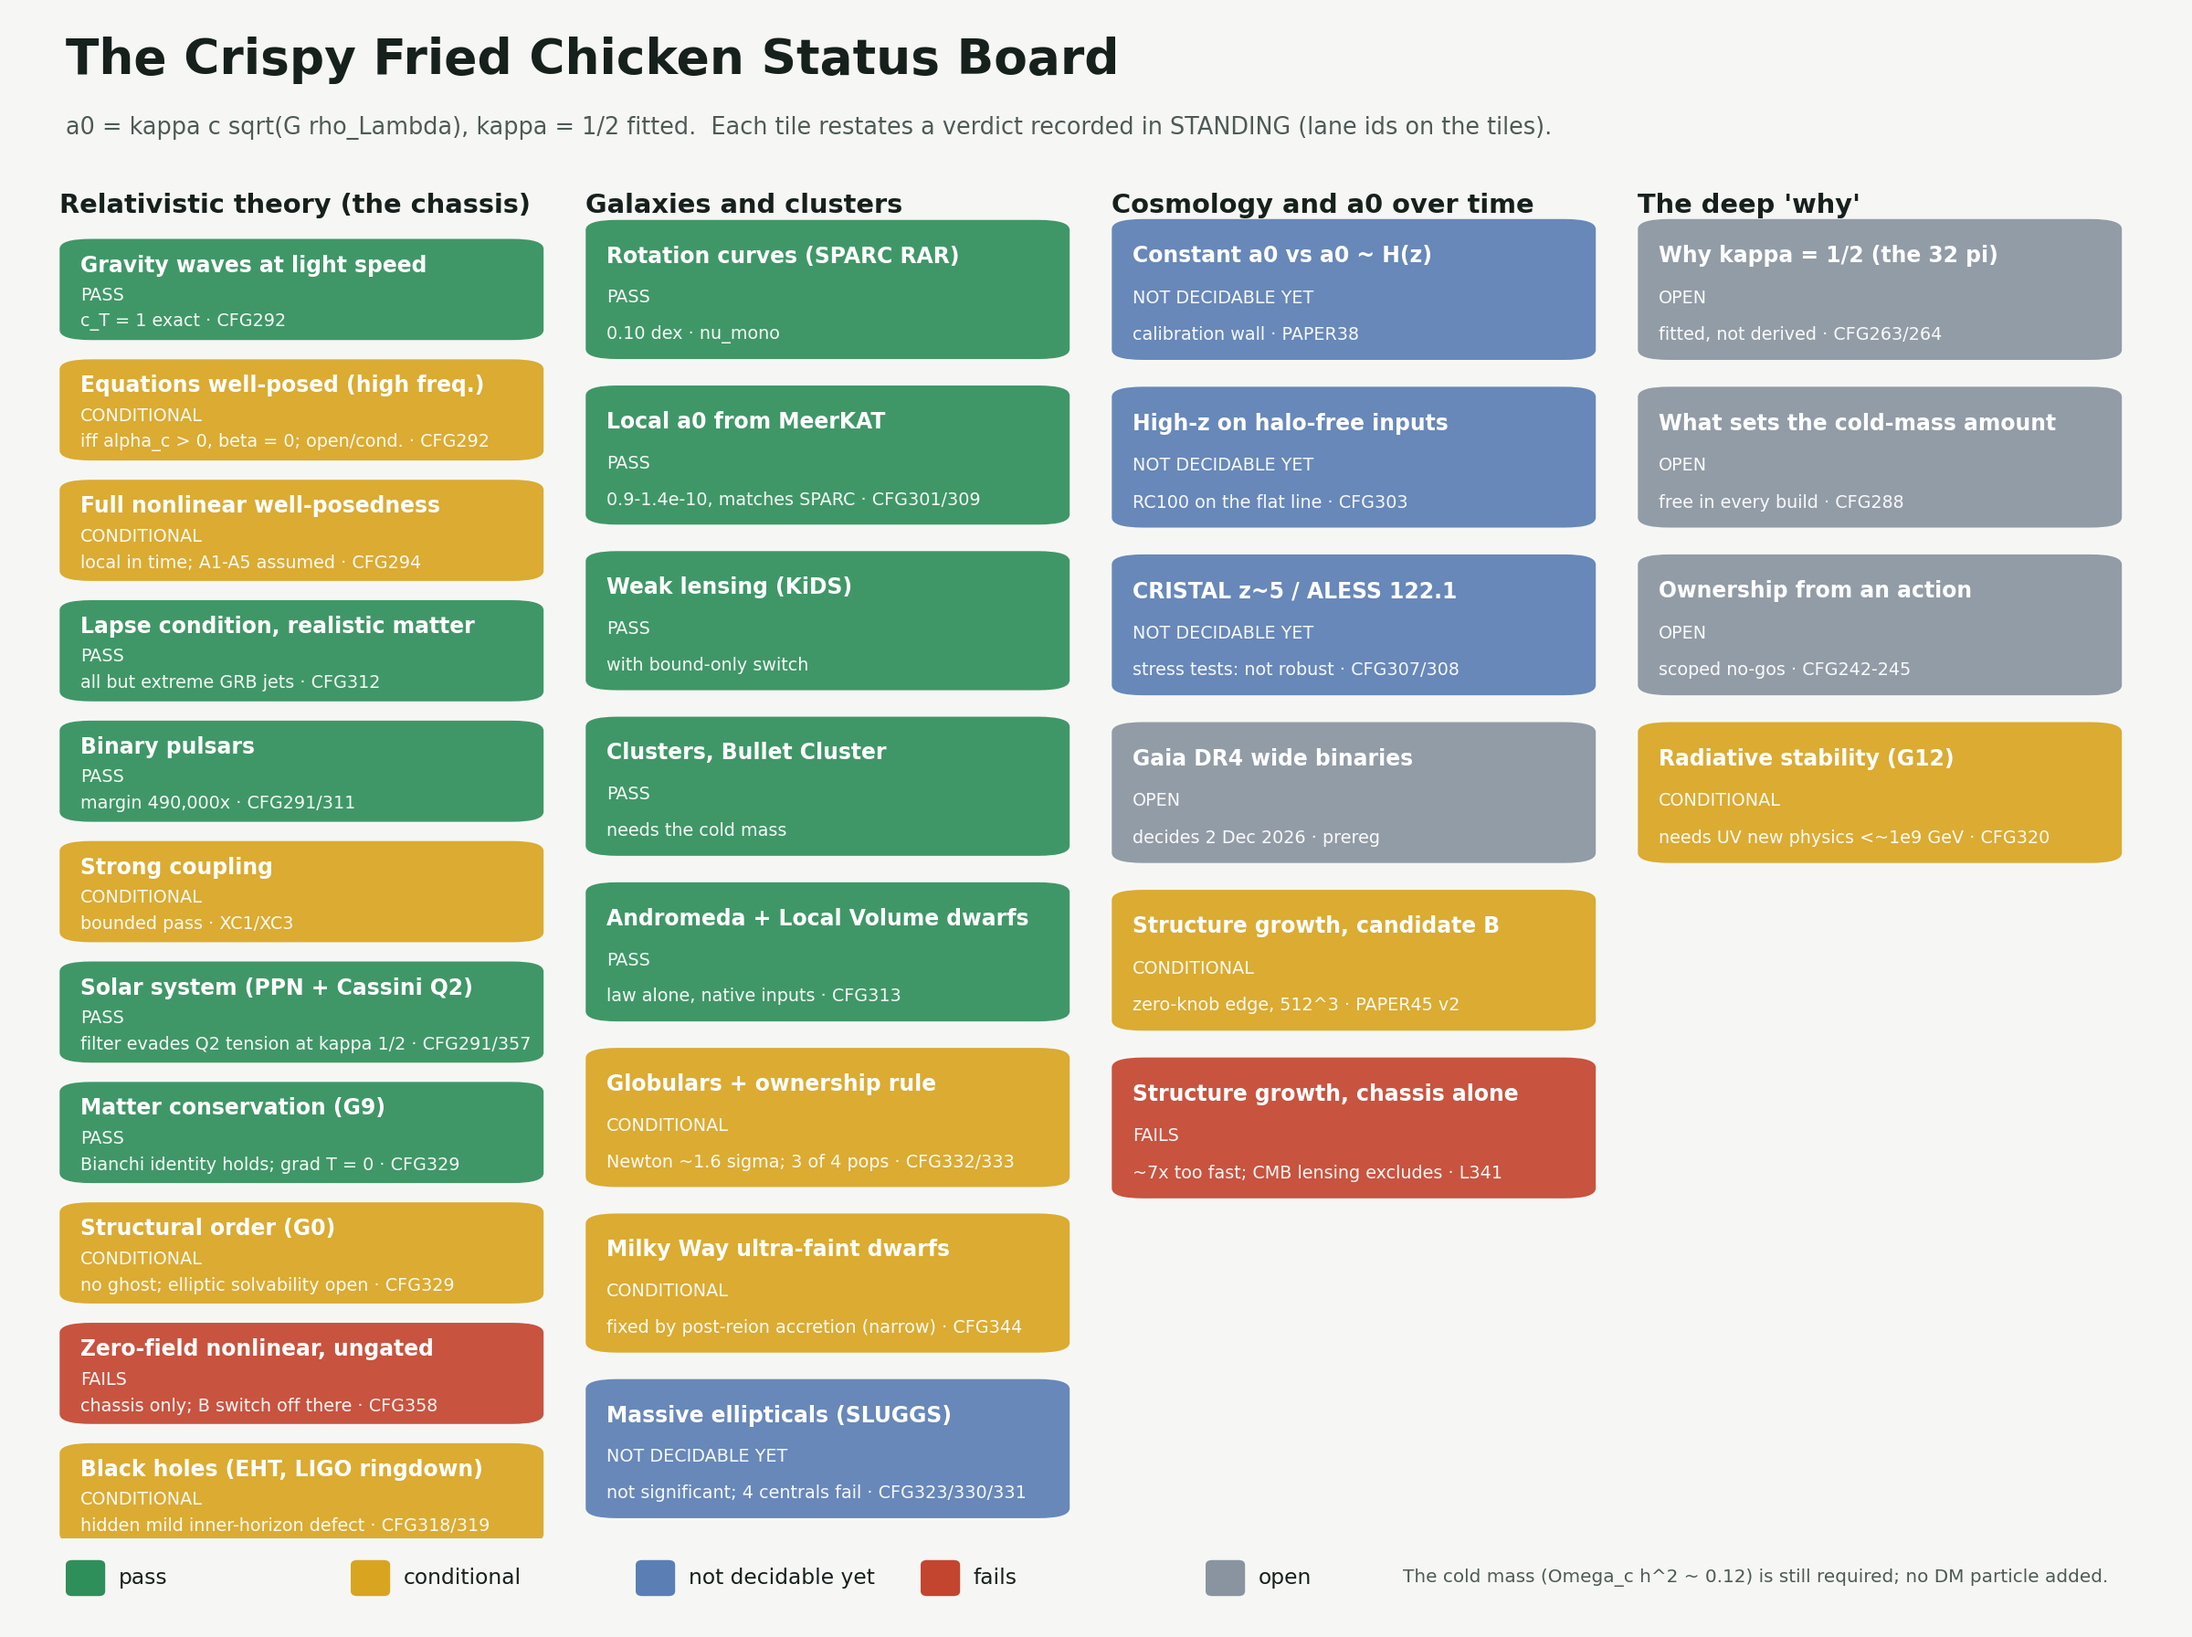
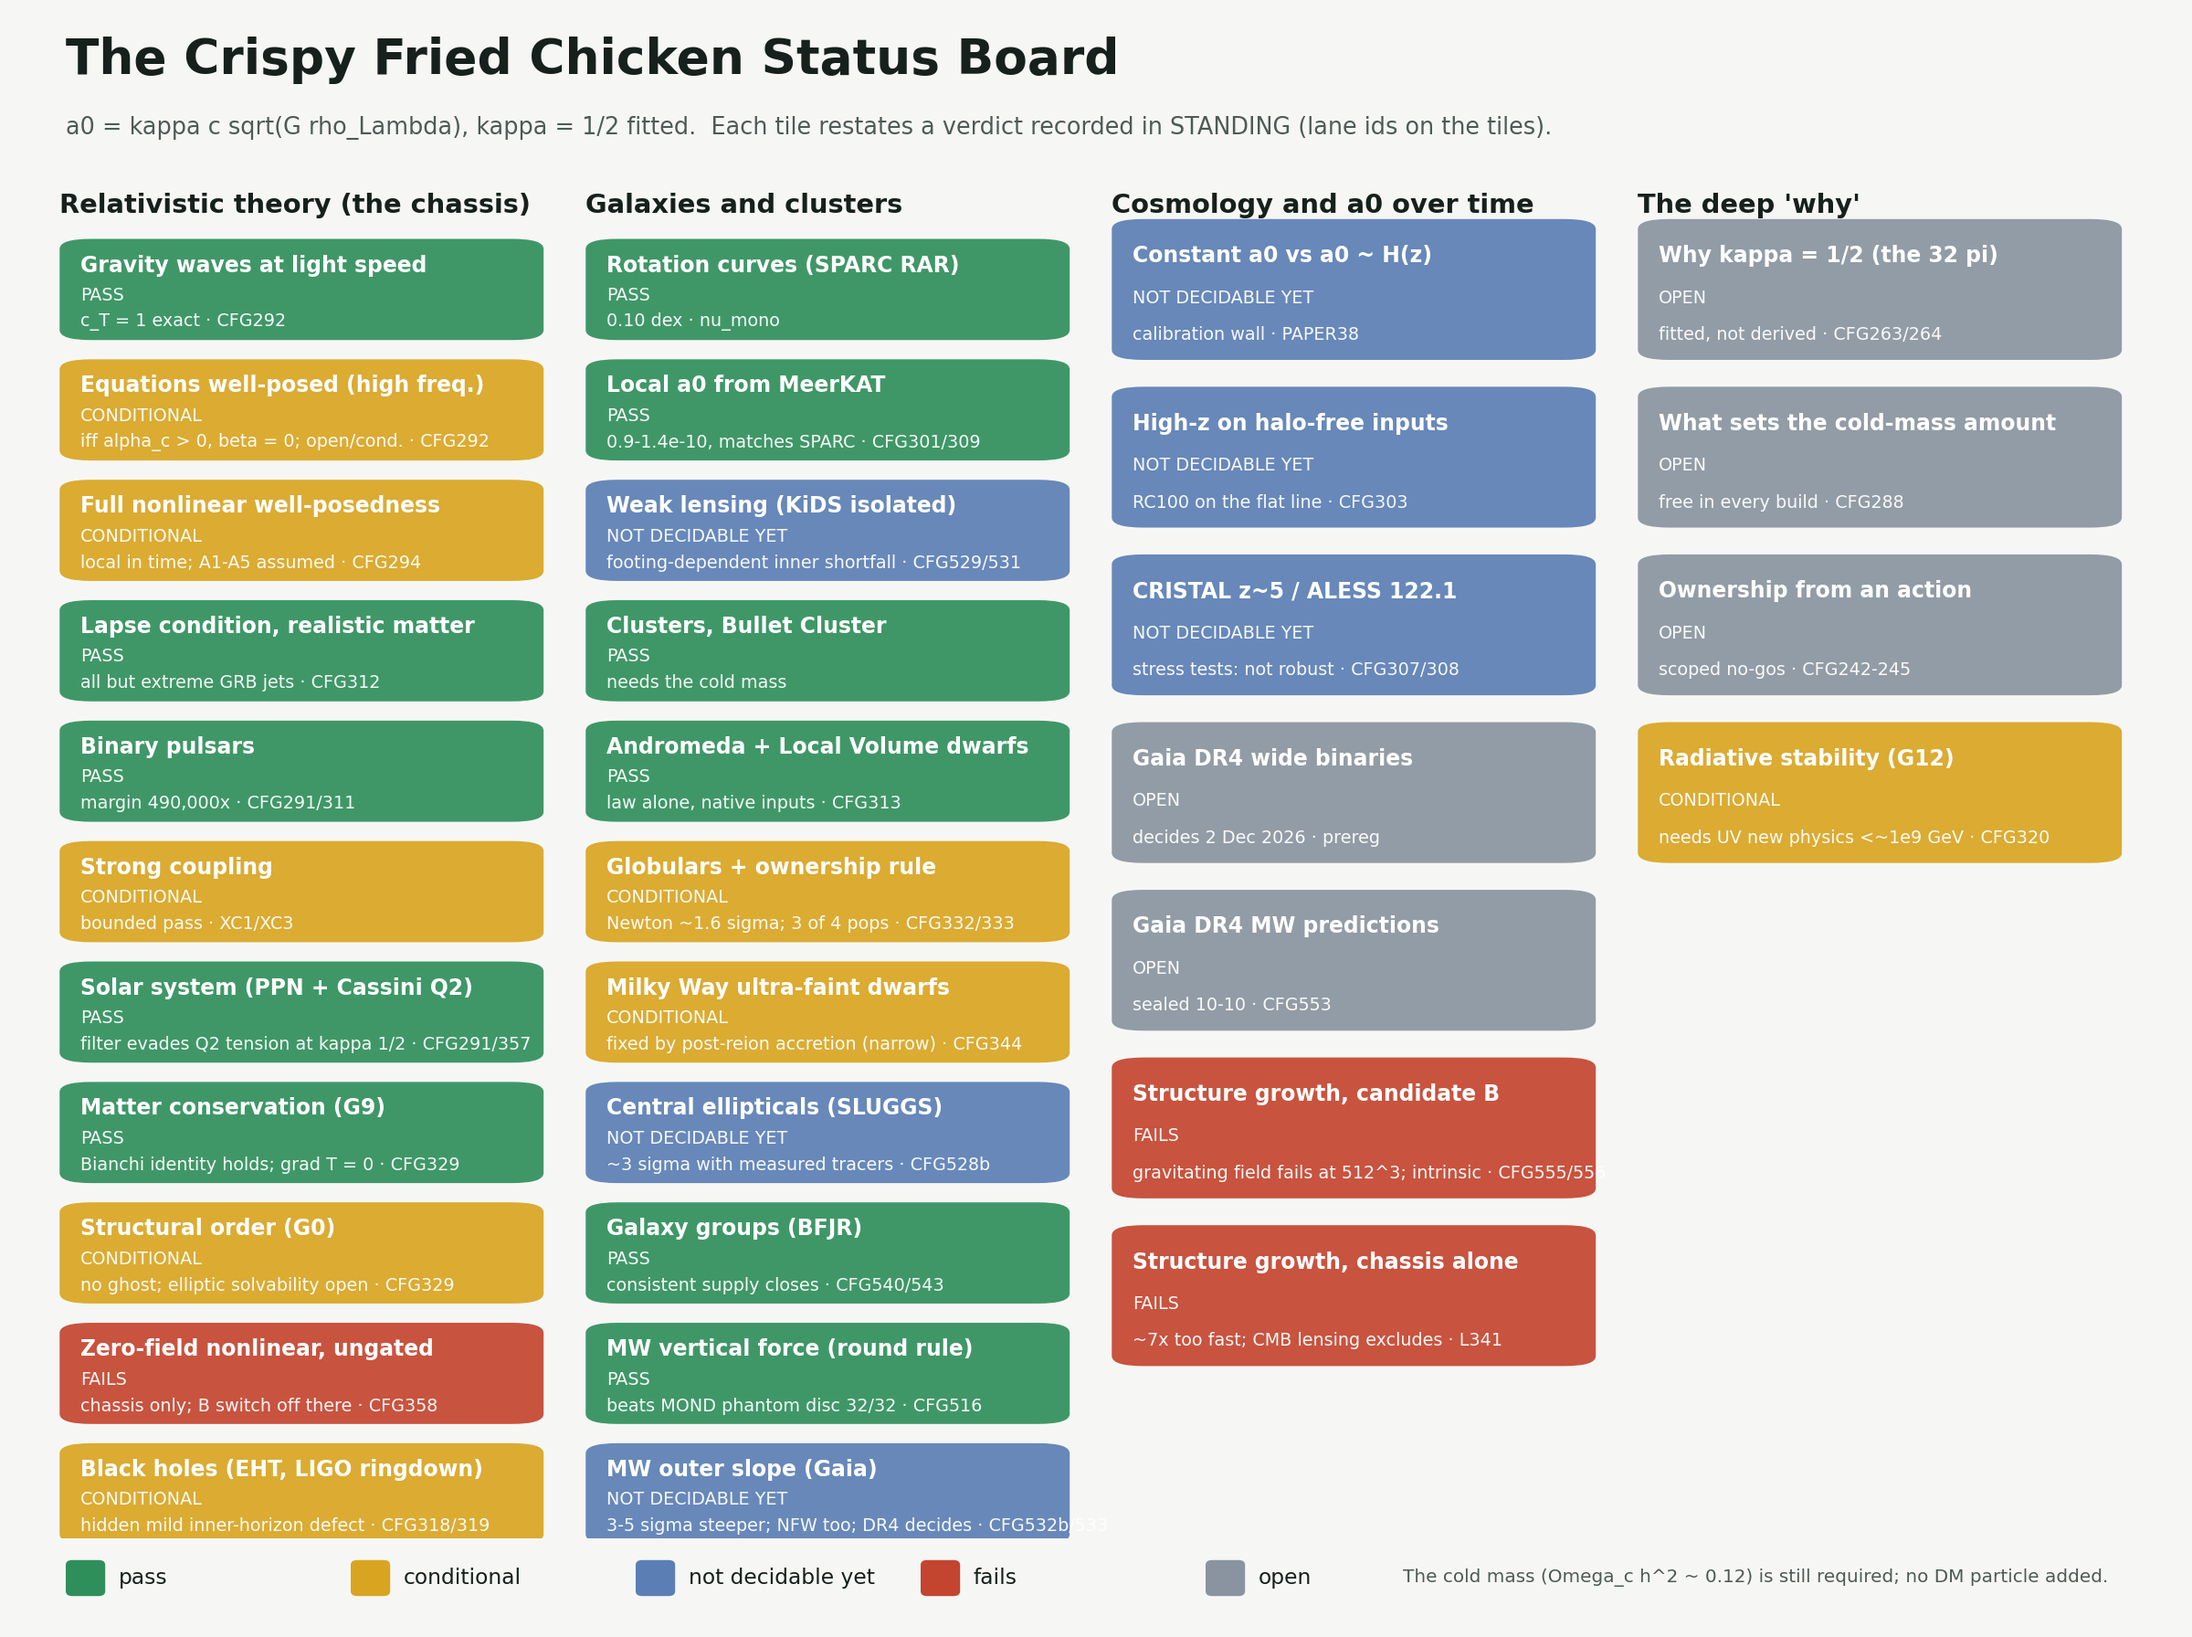
Status board image 2026-10-10: growth FAIL on gravitating field (CFG555/556), KiDS undecided, groups pass, MW vertical force pass, MW outer slope undecided, DR4 MW predictions sealed.

Changed region(s): [[0.25, 0.125, 0.75, 0.9375], [0.5312, 0.6875, 0.625, 0.7188]]

diff --git a/campaign_fresh_gravity/closure_map/status_picture_2026_10_03.py b/campaign_fresh_gravity/closure_map/status_picture_2026_10_03.py
@@ -28,19 +28,23 @@ groups = [
     ("Galaxies and clusters", [
         ("Rotation curves (SPARC RAR)", "PASS", "0.10 dex · nu_mono"),
         ("Local a0 from MeerKAT", "PASS", "0.9-1.4e-10, matches SPARC · CFG301/309"),
-        ("Weak lensing (KiDS)", "PASS", "with bound-only switch"),
+        ("Weak lensing (KiDS isolated)", "UNDEC", "footing-dependent inner shortfall · CFG529/531"),
         ("Clusters, Bullet Cluster", "PASS", "needs the cold mass"),
         ("Andromeda + Local Volume dwarfs", "PASS", "law alone, native inputs · CFG313"),
         ("Globulars + ownership rule", "COND", "Newton ~1.6 sigma; 3 of 4 pops · CFG332/333"),
         ("Milky Way ultra-faint dwarfs", "COND", "fixed by post-reion accretion (narrow) · CFG344"),
-        ("Massive ellipticals (SLUGGS)", "UNDEC", "not significant; 4 centrals fail · CFG323/330/331"),
+        ("Central ellipticals (SLUGGS)", "UNDEC", "~3 sigma with measured tracers · CFG528b"),
+        ("Galaxy groups (BFJR)", "PASS", "consistent supply closes · CFG540/543"),
+        ("MW vertical force (round rule)", "PASS", "beats MOND phantom disc 32/32 · CFG516"),
+        ("MW outer slope (Gaia)", "UNDEC", "3-5 sigma steeper; NFW too; DR4 decides · CFG532b/533"),
     ]),
     ("Cosmology and a0 over time", [
         ("Constant a0 vs a0 ~ H(z)", "UNDEC", "calibration wall · PAPER38"),
         ("High-z on halo-free inputs", "UNDEC", "RC100 on the flat line · CFG303"),
         ("CRISTAL z~5 / ALESS 122.1", "UNDEC", "stress tests: not robust · CFG307/308"),
         ("Gaia DR4 wide binaries", "OPEN", "decides 2 Dec 2026 · prereg"),
-        ("Structure growth, candidate B", "COND", "zero-knob edge, 512^3 · PAPER45 v2"),
+        ("Gaia DR4 MW predictions", "OPEN", "sealed 10-10 · CFG553"),
+        ("Structure growth, candidate B", "FAIL", "gravitating field fails at 512^3; intrinsic · CFG555/556"),
         ("Structure growth, chassis alone", "FAIL", "~7x too fast; CMB lensing excludes · L341"),
     ]),
     ("The deep 'why'", [
